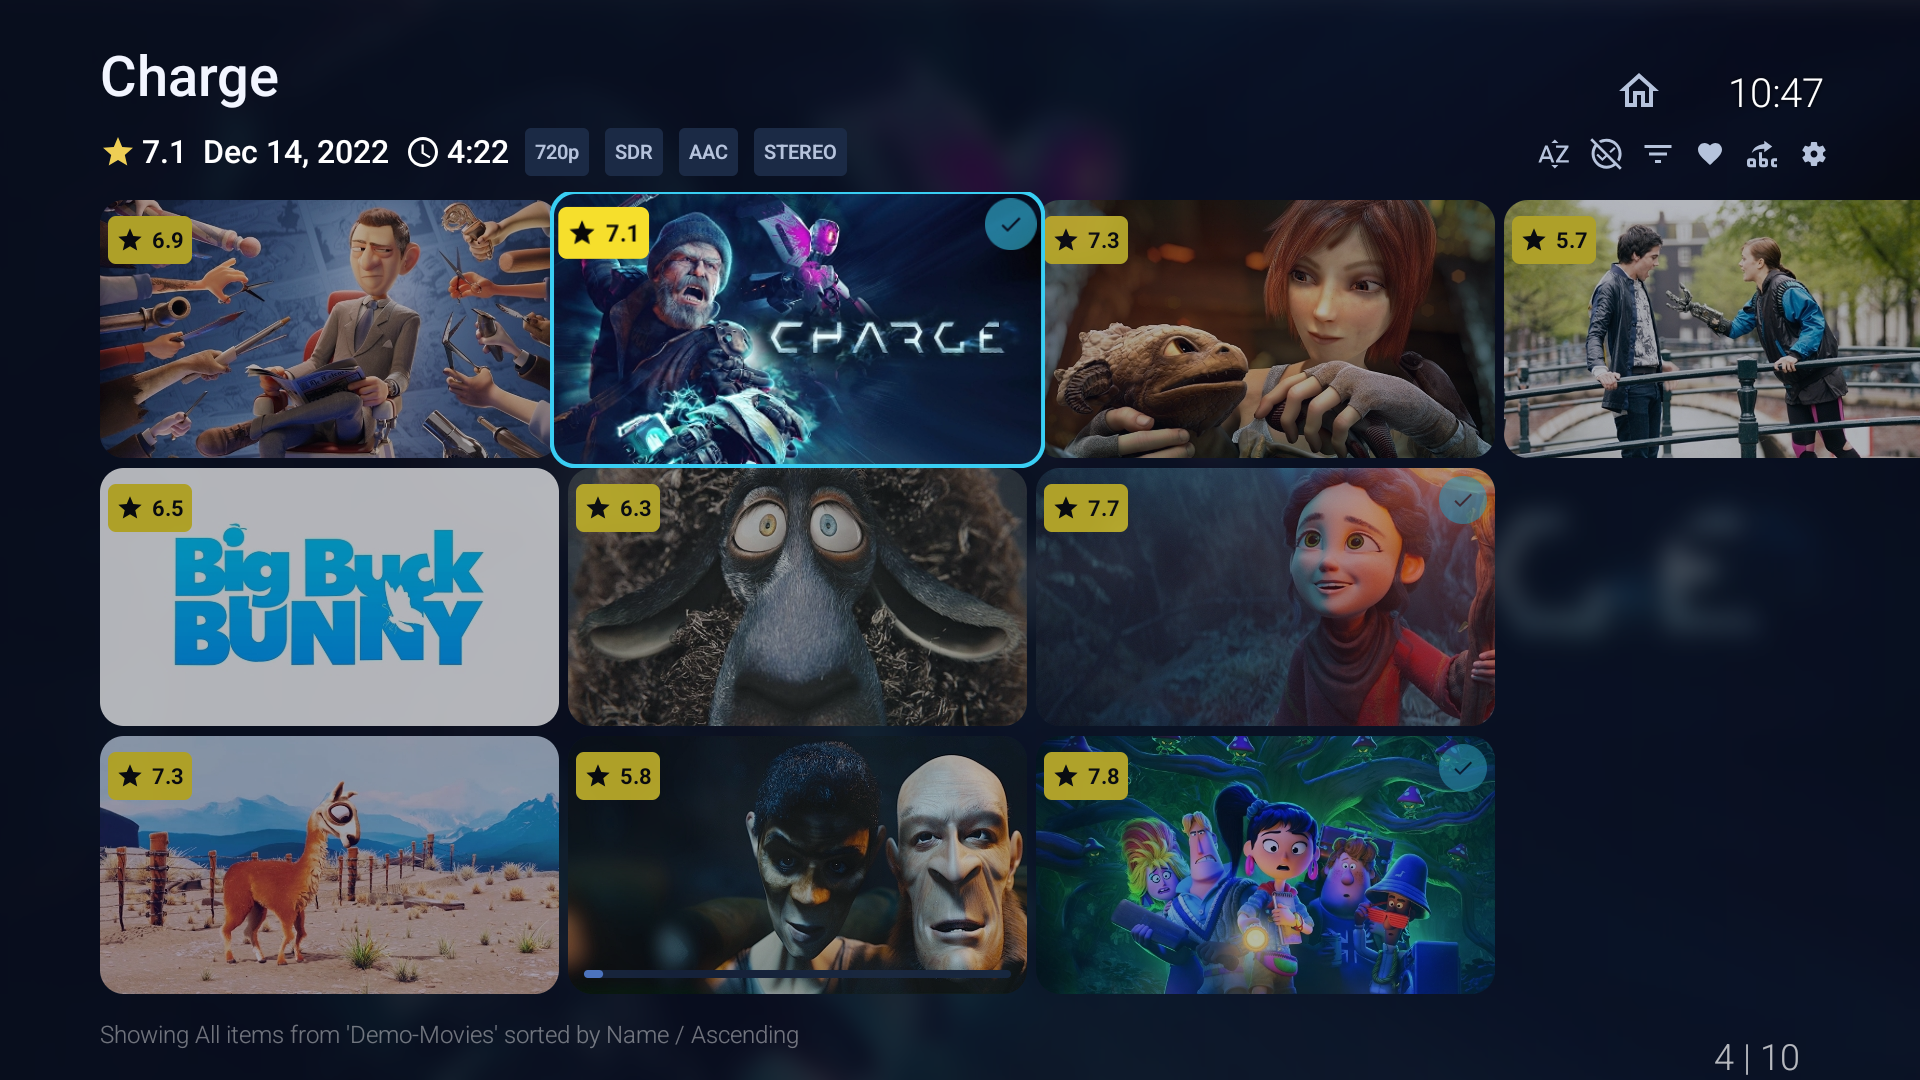
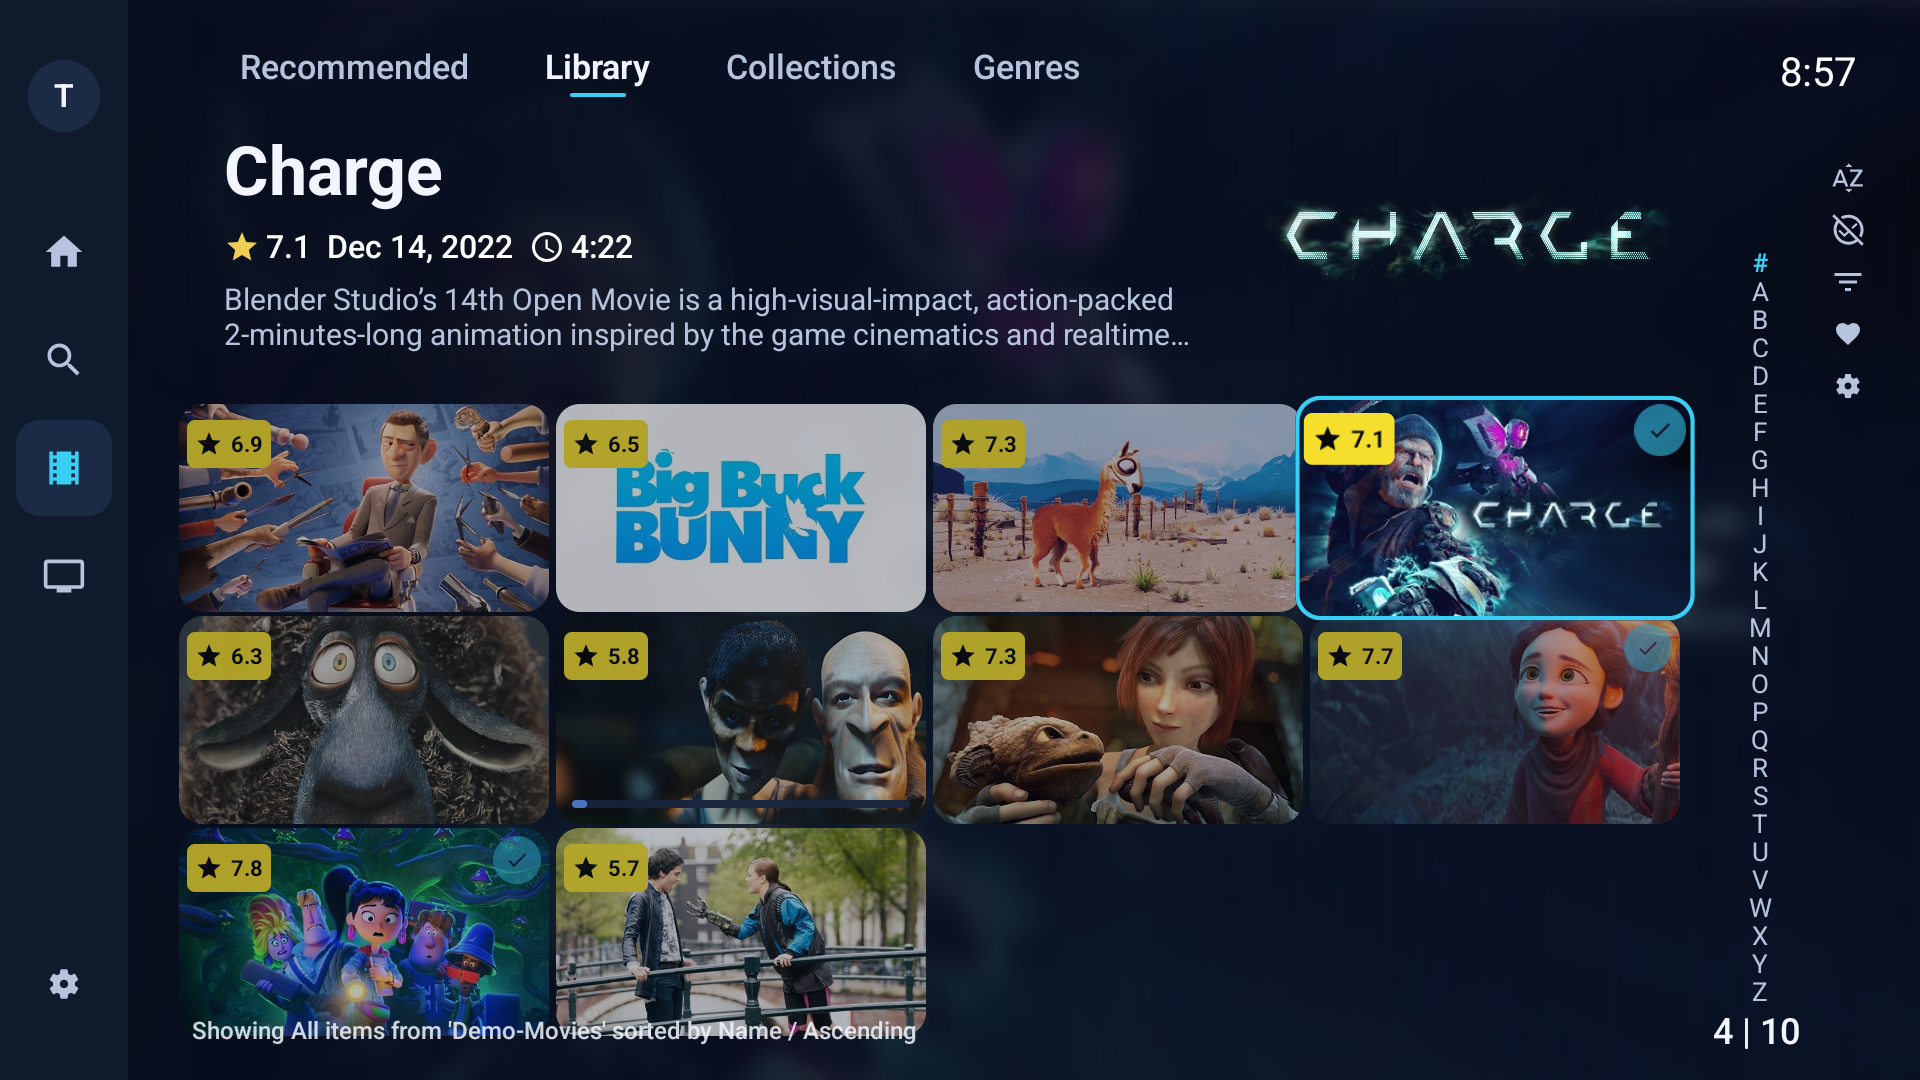
Refresh README screenshots with the 1.1 layout
Retaken on the demo account: Home with the side menu, the new details
pages, player controls and subtitles menu, the tabbed library grid,
Filters, Home customization and the profile picker.

diff --git a/README.md b/README.md
@@ -30,26 +30,26 @@ This is not an officially supported Jellyfin project - it's built for personal u
 ### Home screen
 
 <p align="center">
-  <img alt="LumaFin home screen with Continue Watching and Latest Movies rows" src="docs/screenshots/home-screen.png" width="100%" />
+  <img alt="LumaFin home screen with the side menu, Latest Movies row and a preview of the focused title" src="docs/screenshots/home-screen.png" width="100%" />
 </p>
 
 ### Details screens
 
 | Movie details | Episode details |
 | --- | --- |
-| <img alt="LumaFin movie details screen" src="docs/screenshots/movie-details.png" /> | <img alt="LumaFin episode details screen" src="docs/screenshots/episode-details.png" /> |
+| <img alt="LumaFin movie details screen with title logo, quality tags, actions, audio and subtitle choices and cast" src="docs/screenshots/movie-details.png" /> | <img alt="LumaFin episode details screen with Resume, Restart and Previous episode buttons and a Next episode row" src="docs/screenshots/episode-details.png" /> |
 
 ### Playback
 
 | Player controls | Player menus |
 | --- | --- |
-| <img alt="LumaFin player controls on a dark gradient band" src="docs/screenshots/player-controls.png" /> | <img alt="LumaFin subtitles menu during playback" src="docs/screenshots/player-menu.png" /> |
+| <img alt="LumaFin player controls on a dark gradient band" src="docs/screenshots/player-controls.png" /> | <img alt="LumaFin subtitles menu during playback with English checked and Subtitle Timing" src="docs/screenshots/player-menu.png" /> |
 
 ### Libraries
 
 | Library grid | Filters |
 | --- | --- |
-| <img alt="LumaFin library grid" src="docs/screenshots/library-grid.png" /> | <img alt="LumaFin library Filters panel with switches" src="docs/screenshots/library-filters.png" /> |
+| <img alt="LumaFin movie library with tabs, a grid of landscape cards and an A to Z strip" src="docs/screenshots/library-grid.png" /> | <img alt="LumaFin library Filters panel with switches" src="docs/screenshots/library-filters.png" /> |
 
 ### Home customization and profiles
 
